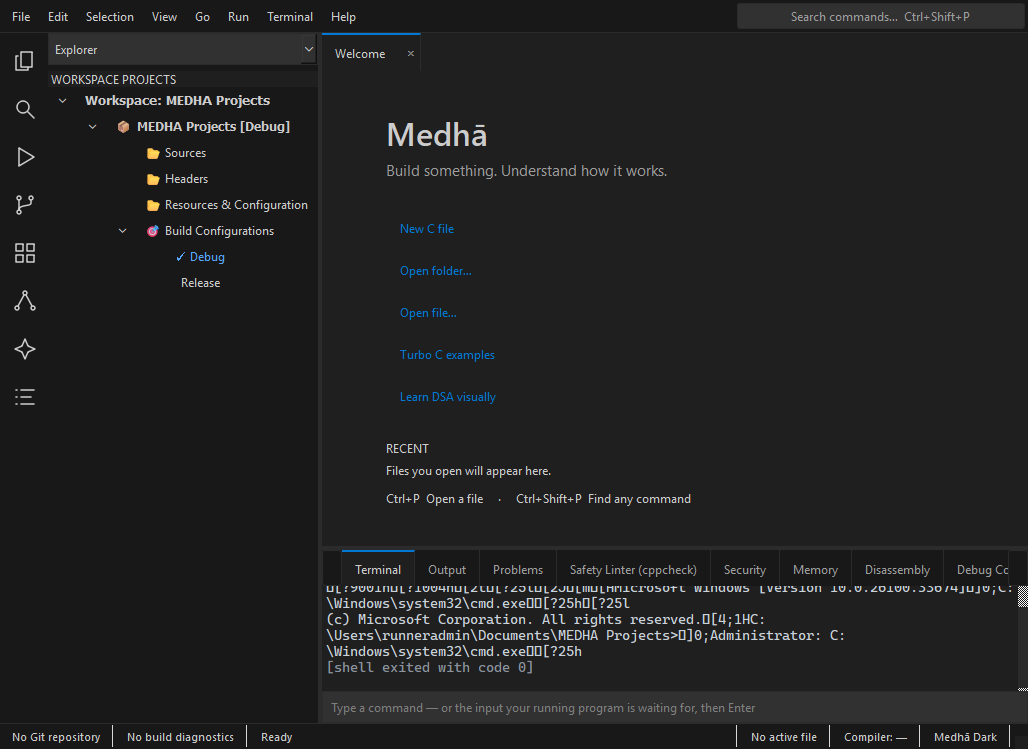
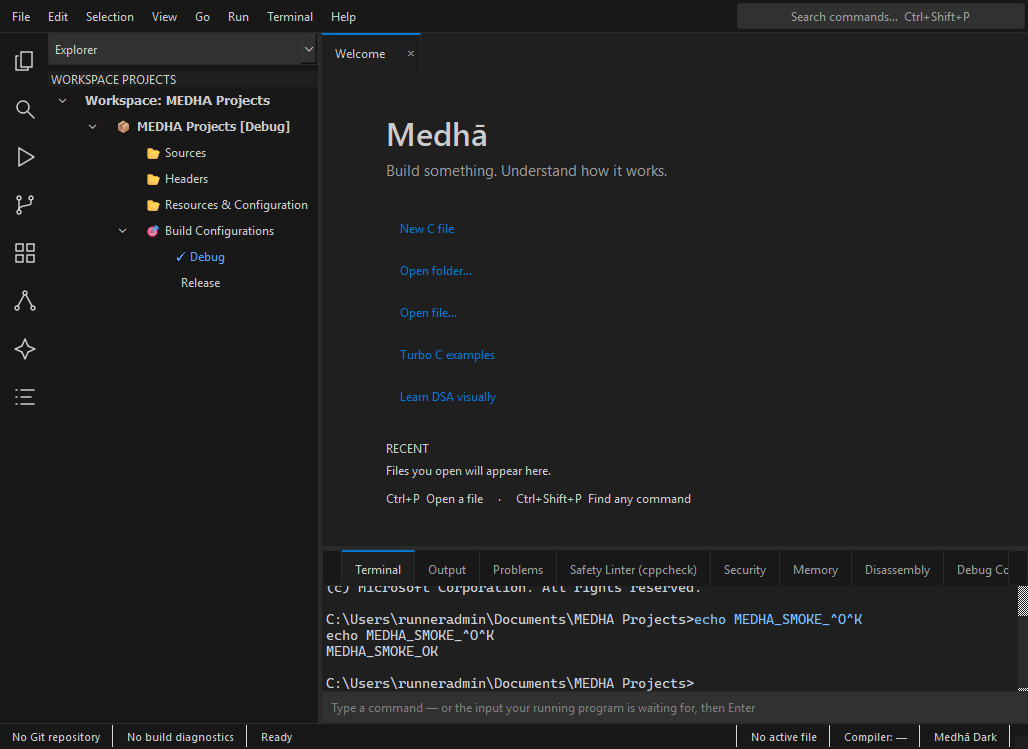
B13: record passing frozen Windows release acceptance

Changed region(s): [[0.3113, 0.7677, 0.965, 0.9212], [0.9961, 0.7984, 1.0, 0.8291]]

diff --git a/docs/WINDOWS-ACCEPTANCE.md b/docs/WINDOWS-ACCEPTANCE.md
@@ -1,71 +1,61 @@
 # Windows release acceptance — 2026-11-05
 
-**Do not submit this build yet.** The build succeeds, but frozen terminal evidence
-and the existing Store version block acceptance. No release/tag/Store submission
-was created. The publishing `windows-msix.yml` workflow was not dispatched.
+## Verified 2.0.2 candidate
 
-## Provenance
-
-- Main source: `d71238e4e9086863ce35064369829a4b5a1b2421` (B11 + B12).
-- Validation branch commit: `63492545728552b1c78e4dba9da0c8017cab9863`.
-- [Artifact-only Windows run](https://github.com/Kanak234/medha-ide/actions/runs/41924745789)
-  completed successfully on windows-latest, Python 3.13.17.
-- [MSIX/portable ZIP and evidence artifact](https://github.com/Kanak234/medha-ide/actions/runs/41924745789/artifacts/13369462001):
-  `medha-windows-validation`, 1,049,625,932 bytes.
[1 lines of base64/hex data omitted]
-  This is the Actions archive digest, not the individual MSIX digest.
-- Built with `packaging/windows/build_msix.ps1`: `MEDHA-2.0.0.msix` and
-  `MEDHA-2.0.0-portable.zip`. No signing files were changed.
-- Small evidence entries were extracted from the downloaded archive prefix and
-  inspected. The slow full local download was stopped; the full artifact remains
-  on GitHub. Package payload/manifest has not been independently inspected locally.
-
-## Results and limits
+[Artifact-only run 42031151597](https://github.com/Kanak234/medha-ide/actions/runs/42031151597)
+passed on Windows for commit `398809d6203e0e51e2a531b00b7e17372fffcf5c`.
+It builds through `packaging/windows/build_msix.ps1` and publishes no GitHub release.
+The publishing `windows-msix.yml` workflow was not dispatched.
 
 | Check | Result |
 |---|---|
-| Windows offline suite + pyflakes | 212 passed, 6 skipped; lint clean |
-| Existing main Windows CI on Python 3.12 | 212 passed, 6 skipped, run 41922910693 |
-| Source GUI startup | Passed |
-| Frozen GUI startup from system working directory | Window/Welcome capture passed; terminal issue below |
-| Frozen C compiler selftest | Build script step succeeded; individual stdout not independently inspected |
-| Source ConPTY `dir`, continuous ping, Ctrl+C, then another `dir` | Passed, real Windows shell |
-| Source C build/run with terminal `scanf` input | Passed, input 21 produced ANSWER=42 |
-| Source Turbo C graphics example | Passed, decoded framebuffer; screenshot shows drawing |
-| MSIX install, installed launch/interaction, uninstall | Not performed |
-| Installed C scanf / Turbo graphics / terminal Ctrl+C | Not performed |
-| Manual breakpoint debugging, DSA stepping, save/close/reopen project | Not performed in this Windows acceptance run |
-| Extension install/uninstall | Not performed; offline suite does not establish this |
-| Linux regression | 216 passed, 2 skipped; lint clean; 20 UI smoke tests passed |
+| Windows offline tests and real ConPTY, Python 3.13 | 214 passed, 6 skipped; pyflakes clean |
+| Separate Windows Python 3.12 suite | 214 passed, 6 skipped; run 42031151656 |
+| Frozen GUI launch from Windows system directory | PASS; Welcome visible and shell command produced MEDHA_SMOKE_OK |
+| Frozen bundled GCC compiler selftest | PASS, SUM=5050 |
+| Frozen ConPTY dir, continuous ping, Ctrl+C, another dir | PASS; shell survives |
+| Frozen C build/run with scanf through terminal | PASS; input 21 produces ANSWER=42 |
+| Frozen Turbo C graphics | PASS; real decoded framebuffer and screenshot |
+| Same terminal/C/Turbo checks in source GUI | PASS |
+| Linux regression | 218 passed, 2 skipped; pyflakes clean; 20 UI smoke tests passed |
+| MSIX installation, installed launch, uninstall | Not performed |
+| Installed-package terminal/C/Turbo interaction | Not performed; frozen executable was tested before packaging |
+| Manual Windows breakpoint, DSA stepping, save/close/reopen | Not performed in this acceptance run |
+| Extension install/uninstall | Not performed |
 
-Source acceptance uses the real app and bundled GCC, but is not equivalent to an
-installed MSIX test. No interactive Windows desktop was connected to this chat.
-See [source results](screenshots/windows-acceptance/source-results.json) and
-[frozen GUI JSON](screenshots/windows-acceptance/frozen-gui.json).
+No connected Windows desktop or signing certificate was available. No signing
+files or Windows trust/security settings were changed. GitHub Windows GUI tests
+are not a claim that the unperformed installed/manual checks passed.
 
-## B13: frozen terminal evidence requires investigation
+## Packaging fixes proven by the run
 
-The screenshot is captured by `medha/smoke_gui.py` **before** `window.close()`.
-It shows visible terminal control sequences and `[shell exited with code 0]`.
-The smoke test only asserts window visibility and Welcome; its PASS does not
-assert terminal health. Source ConPTY acceptance passed, so do not describe B11
-as wholly broken or this frozen behavior as resolved without further evidence.
-Root cause of the frozen shell exit has not been established.
+B13: pywinpty imports alone omitted its runtime console hosts. Explicit collection
+of the companion DLLs and executables, including `winpty/OpenConsole.exe`, fixes
+the frozen shell exit. Hidden-console mode did not help and was reverted. The app
+remains a windowed executable. Streaming ANSI/OSC filtering removes raw terminal
+control sequences from the QTextEdit display; this is not a full VT emulator.
 
-![Frozen Welcome with terminal issue](screenshots/windows-acceptance/frozen-welcome.png)
+B14: the build now waits for the compiler selftest process and verifies its exit
+code and PASS marker. UTF-8 stdout/stderr prevent the MEDHĀ text from raising a
+cp1252 encoding error. The GUI smoke now requires live command output, not only
+a visible window. Lifecycle evidence shows shell shutdown after checks at close.
 
-The source Turbo check captures an actual decoded graphics frame. Runner display
-dimensions constrain this evidence image; it is not a replacement Store screenshot.
+## Evidence
 
-![Source Windows Turbo graphics](screenshots/windows-acceptance/source-turbo.png)
+- [Frozen results](screenshots/windows-acceptance/frozen-results.json)
+- [Source results](screenshots/windows-acceptance/source-results.json)
+- [Frozen startup JSON](screenshots/windows-acceptance/frozen-gui.json)
+- [Startup terminal text](screenshots/windows-acceptance/frozen-terminal.txt)
+- [Artifact archive](https://github.com/Kanak234/medha-ide/actions/runs/42031151597/artifacts/13415918858)
+  (`medha-windows-validation`, MSIX plus portable ZIP).
 
-## Store version gate
+![Frozen Welcome and healthy terminal](screenshots/windows-acceptance/frozen-welcome.png)
+![Frozen Turbo graphics](screenshots/windows-acceptance/frozen-turbo.png)
 
-Partner Center was inspected read-only. The live submission's Packages page
-shows **MEDHA-2.0.1.msix, v2.0.1.0, X64**. The requested 2.0.0 build is lower than
-that existing package version. Version selection must be resolved before upload;
-no silent version bump or new submission was made. User decision is pending.
+## Store preparation
 
-Release requires resolving B13, verifying the installed package, addressing the
-remaining manual checklist and choosing a Store-compatible version. Keep existing
-Store copy/screenshots unchanged until those gates are satisfied.
+The live Store package is 2.0.1.0, so this update uses **2.0.2 / 2.0.2.0**.
+Partner Center Submission 2 has the WHATS_NEW block from `store/listing.md` and
+seven screenshots saved. At report time the new binary has not been uploaded
+and certification has not been submitted. The existing draft inherits 2.0.1;
+it must be replaced with the validated 2.0.2 MSIX before submission.

diff --git a/docs/MEDHA-v2-PLAN.md b/docs/MEDHA-v2-PLAN.md
@@ -27,7 +27,7 @@ Release rule: fix and push all month, publish to the Store **once** at the end (
 | B10 | Medium | `ProjectExplorerWidget.__init__` doesn't call `load_workspace()`, so workspace projects aren't loaded and fallback logic creates a project with the workspace directory name. | `medha/project_manager.py` line 192 | Add `self.workspace_manager.load_workspace(workspace_path)` in `__init__`. |
 | B11 | **High** | Windows terminal never used ConPTY: code imported `pywinpty` (real module is `winpty`), wrong `spawn` args, blocking `read()` on the GUI thread, `send_control` doesn't exist; pywinpty not in build deps. Fallback never set `_shell_started` (commands stuck) and its Ctrl+C killed the shell. | `medha/terminal.py`, `requirements.txt`, spec | Fixed: `winpty` import, reader thread, `sendintr()`, fallback sets started + Ctrl+C terminates only shell children (psutil); `windows-tests.yml` runs the real-ConPTY test on windows-latest. |
 | B12 | Low | Python traceback line was wrong on Windows: frame-path filter compared paths without abspath/normcase on both sides. | `medha/runner.py` parse_python_traceback | Fixed: normalise both sides. Tests made path-portable for the Windows CI job. |
-| B13 | High (release) | Frozen Windows GUI smoke capture shows raw ANSI control sequences and `[shell exited with code 0]` before screenshot/close, although source ConPTY tests pass. Current GUI smoke checks only window visibility. | `medha/terminal.py`, `medha/smoke_gui.py`; Windows artifact run 41924745789 | Runs 41985602229 and 41986328778 still fail packaged shell startup; hidden console did not help and was reverted. Package pywinpty companion DLLs and console-host executables explicitly (hiddenimports alone omits runtime helpers); capture lifecycle stacks and revalidate; add packaged terminal command/Ctrl+C assertions before accepting release. See `docs/WINDOWS-ACCEPTANCE.md`. |
+| B13 | High (release) | Frozen Windows GUI smoke capture shows raw ANSI control sequences and `[shell exited with code 0]` before screenshot/close, although source ConPTY tests pass. Current GUI smoke checks only window visibility. | `medha/terminal.py`, `medha/smoke_gui.py`; Windows artifact run 41924745789 | Fixed: explicitly collect pywinpty companion DLLs and console-host executables (OpenConsole.exe); filter ANSI/OSC controls. Frozen terminal/Ctrl+C/C scanf/Turbo acceptance PASS in run 42031151597. See `docs/WINDOWS-ACCEPTANCE.md`. |
 | B14 | High (release) | Windowed compiler selftest was not explicitly awaited; redirected cp1252 stdout crashes on MEDHĀ output while the workflow continues to GUI startup. | `packaging/windows/build_msix.ps1`, `medha_entry.py` | Await selftest exit and PASS marker; configure attached stdout/stderr as UTF-8. |
 More bugs come from Track B (section 3) — append them to this table with the same columns.
 

diff --git a/store/listing.md b/store/listing.md
@@ -38,6 +38,5 @@ Copy only the bullets below into Partner Center (English; under 1,500 characters
 - Improve offline test reliability and code quality.
 <!-- WHATS_NEW_END -->
 
-Preparation only: B3 terminal support is pending on `v2-bugs` and is not claimed
-in this copy. Review package version ordering (main previously used 2.0.1), merge
-and verify the terminal work, and complete Windows/manual checks before upload.
+B11/B12 and packaged terminal fixes are included in the 2.0.2 candidate.
+See `docs/WINDOWS-ACCEPTANCE.md` for verified checks and installation/manual gaps.
